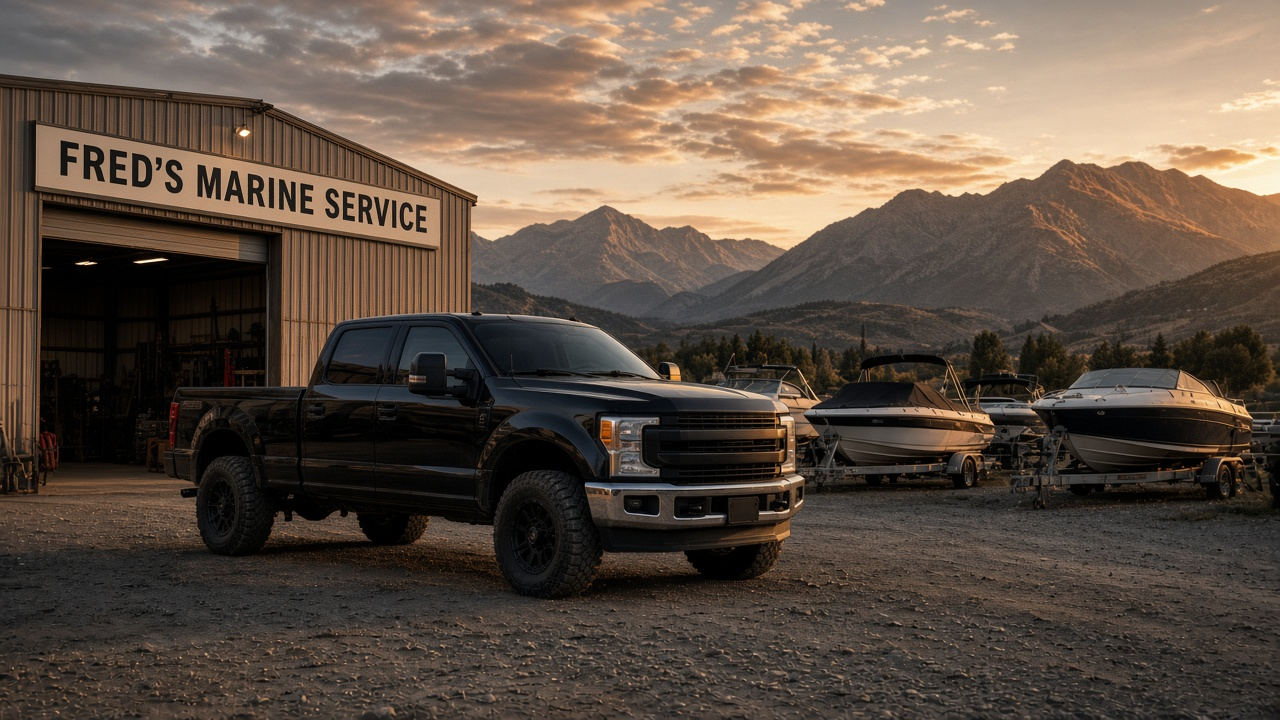
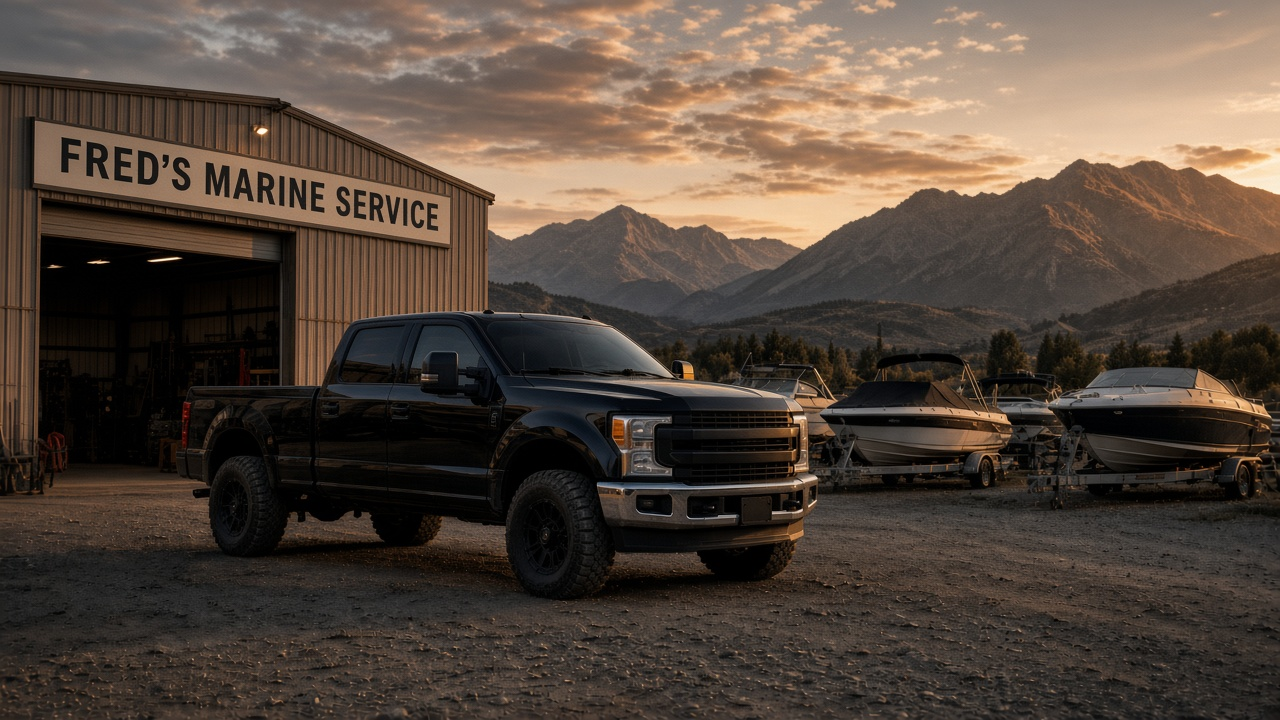
Widen the My Repairs board so steppers and shop names stay readable
Give the list more column room, keep badge and price text on one line, and
anchor the Fred’s Marine hero on the right so the headline sits on open sky.

Changed region(s): [[0.0, 0.0, 1.0, 1.0], [0.9375, 0.0, 0.9688, 0.0611], [0.9688, 0.1222, 1.0, 0.1528]]

diff --git a/components/repairs/customer-repairs.tsx b/components/repairs/customer-repairs.tsx
@@ -37,10 +37,10 @@ export function CustomerRepairs({
   return (
     <div className="bg-[#e8eef4] text-navy">
       <Hero />
-      <div className="relative z-10 mx-auto -mt-10 max-w-[1180px] px-6 pb-12">
+      <div className="relative z-10 mx-auto -mt-14 w-full max-w-[1240px] px-5 pb-12">
         <div className="rounded-[28px] bg-white p-5 shadow-[0_18px_40px_rgba(14,28,47,0.10)] sm:p-6">
           <div className="flex flex-wrap items-end justify-between gap-3 border-b border-line">
-            <div className="flex min-w-0 flex-1 flex-wrap gap-1">
+            <div className="flex min-w-0 flex-1 flex-wrap gap-0.5">
               {TABS.map((item) => {
                 const active = tab === item.key;
                 return (
@@ -49,7 +49,7 @@ export function CustomerRepairs({
                     type="button"
                     onClick={() => setTab(item.key)}
                     className={cn(
-                      "-mb-px border-b-2 px-3 py-3 text-sm font-semibold",
+                      "-mb-px cursor-pointer border-b-2 px-2.5 py-3 text-[13px] font-semibold sm:px-3 sm:text-sm",
                       active ? "border-[#2f7bff] text-[#2f7bff]" : "border-transparent text-muted hover:text-navy",
                     )}
                   >
@@ -72,7 +72,7 @@ export function CustomerRepairs({
             </label>
           </div>
 
-          <div className="mt-5 grid items-start gap-5 xl:grid-cols-[minmax(0,1fr)_300px]">
+          <div className="mt-5 grid items-start gap-5 lg:grid-cols-[minmax(0,1fr)_300px]">
             <div className="divide-y divide-line">
               {visible.length === 0 ? (
                 <p className="py-10 text-center text-sm text-muted">No repairs in this list.</p>
@@ -94,11 +94,15 @@ export function CustomerRepairs({
 
 function Hero() {
   return (
-    <section className="relative overflow-hidden pb-20 pt-24">
+    <section className="relative overflow-hidden bg-[#071422] pb-24 pt-24">
       {/* eslint-disable-next-line @next/next/no-img-element */}
-      <img src="/landing/repairs-hero.png" alt="" className="absolute inset-0 h-full w-full object-cover object-[62%_center]" />
-      <div className="absolute inset-0 bg-[linear-gradient(90deg,rgba(7,20,34,0.88)_0%,rgba(7,20,34,0.42)_52%,rgba(7,20,34,0.12)_100%)]" />
-      <p className="font-script absolute right-[5%] top-24 hidden max-w-[170px] text-right text-[28px] leading-tight text-white lg:block">
+      <img
+        src="/landing/repairs-hero.png"
+        alt=""
+        className="absolute inset-y-0 right-0 h-full w-[78%] object-cover object-[18%_center]"
+      />
+      <div className="absolute inset-0 bg-[linear-gradient(90deg,rgba(7,20,34,0.94)_0%,rgba(7,20,34,0.72)_28%,rgba(7,20,34,0.22)_58%,rgba(7,20,34,0.08)_100%)]" />
+      <p className="font-script absolute right-[4%] top-24 hidden max-w-[170px] text-right text-[28px] leading-tight text-white lg:block">
         Less Time
         <br />
         Waiting.
@@ -107,7 +111,7 @@ function Hero() {
         <br />
         Out There.
       </p>
-      <div className="relative mx-auto max-w-[1180px] px-6">
+      <div className="relative mx-auto max-w-[1240px] px-5">
         <p className="text-xs font-semibold tracking-[0.22em] text-white/75">MY REPAIRS</p>
         <h1 className="mt-2 max-w-2xl text-4xl font-extrabold tracking-tight text-white sm:text-5xl">
           Track Your <span className="text-[#2f7bff]">Repairs.</span>
@@ -124,8 +128,8 @@ function Hero() {
 
 function RepairItem({ row }: { row: RepairRow }) {
   return (
-    <article className="grid gap-4 py-5 md:grid-cols-[92px_minmax(0,0.9fr)_minmax(0,1.15fr)_110px_128px] md:items-center">
-      <div className="h-[72px] overflow-hidden rounded-xl">
+    <article className="grid gap-4 py-5 lg:grid-cols-[92px_minmax(200px,0.85fr)_minmax(260px,1.35fr)_minmax(118px,0.4fr)_minmax(132px,0.42fr)] lg:items-center">
+      <div className="h-[76px] overflow-hidden rounded-xl">
         {/* eslint-disable-next-line @next/next/no-img-element */}
         <img src={row.photo} alt="" className="h-full w-full object-cover" />
       </div>
@@ -134,15 +138,15 @@ function RepairItem({ row }: { row: RepairRow }) {
         <p className="text-sm text-muted">{row.problem}</p>
         <div className="mt-2 flex items-center gap-2">
           {/* eslint-disable-next-line @next/next/no-img-element */}
-          <img src={row.shopPhoto} alt="" className="h-7 w-7 rounded-full object-cover" />
-          <div className="min-w-0 leading-tight">
-            <p className="truncate text-sm font-semibold text-[#2f7bff]">{row.shopName}</p>
+          <img src={row.shopPhoto} alt="" className="h-8 w-8 shrink-0 rounded-full object-cover" />
+          <div className="leading-tight">
+            <p className="text-sm font-semibold text-[#2f7bff]">{row.shopName}</p>
             <p className="text-xs text-muted">{row.shopCity}</p>
           </div>
         </div>
       </div>
       <div className="min-w-0">
-        <span className={cn("inline-flex rounded-full px-2.5 py-1 text-xs font-semibold", badgeClass(row.badge.tone))}>
+        <span className={cn("inline-flex whitespace-nowrap rounded-full px-2.5 py-1 text-xs font-semibold", badgeClass(row.badge.tone))}>
           {row.badge.label}
         </span>
         <p className="mt-2 text-xs text-muted">
@@ -151,7 +155,7 @@ function RepairItem({ row }: { row: RepairRow }) {
         {row.relativeLabel ? <p className="text-xs text-muted">{row.relativeLabel}</p> : null}
         <Stepper steps={row.steps} current={row.stepIndex} />
       </div>
-      <div>
+      <div className="whitespace-nowrap">
         <p className="text-xs text-muted">{row.priceLabel}</p>
         <p className="text-lg font-bold">{row.price}</p>
       </div>
@@ -181,23 +185,27 @@ function RepairItem({ row }: { row: RepairRow }) {
 
 function Stepper({ steps, current }: { steps: string[]; current: number }) {
   return (
-    <ol className="mt-3 flex items-start">
+    <ol className="mt-3 flex w-full min-w-[268px] items-start">
       {steps.map((step, index) => {
         const done = index < current;
         const active = index === current;
         return (
           <li key={step} className="flex min-w-0 flex-1 flex-col items-center">
             <div className="flex w-full items-center">
-              <span className={cn("h-0.5 flex-1", index === 0 ? "bg-transparent" : done || active ? "bg-[#2f7bff]" : "bg-line")} />
+              <span className={cn("h-[2px] flex-1", index === 0 ? "bg-transparent" : done || active ? "bg-[#2f7bff]" : "bg-[#d5dee8]")} />
               <span
                 className={cn(
-                  "rounded-full",
-                  active ? "h-3 w-3 bg-[#2f7bff] ring-4 ring-[#2f7bff]/20" : done ? "h-2 w-2 bg-[#2f7bff]" : "h-2 w-2 border border-[#c5d0dc] bg-white",
+                  "z-[1] shrink-0 rounded-full",
+                  active
+                    ? "h-3.5 w-3.5 bg-[#2f7bff] ring-[5px] ring-[#2f7bff]/20"
+                    : done
+                      ? "h-2.5 w-2.5 bg-[#2f7bff]"
+                      : "h-2.5 w-2.5 border border-[#c5d0dc] bg-white",
                 )}
               />
-              <span className={cn("h-0.5 flex-1", index === steps.length - 1 ? "bg-transparent" : done ? "bg-[#2f7bff]" : "bg-line")} />
+              <span className={cn("h-[2px] flex-1", index === steps.length - 1 ? "bg-transparent" : done ? "bg-[#2f7bff]" : "bg-[#d5dee8]")} />
             </div>
-            <span className="mt-1 w-[4.6rem] text-center text-[9px] leading-tight text-muted">{step}</span>
+            <span className="mt-1.5 px-0.5 text-center text-[10px] leading-tight text-[#7a8794]">{step}</span>
           </li>
         );
       })}

diff --git a/components/layout/customer-sidebar.tsx b/components/layout/customer-sidebar.tsx
@@ -61,7 +61,7 @@ export function CustomerSidebar({ unreadMessages, onNavigate }: { unreadMessages
               href={link.href}
               onClick={onNavigate}
               className={cn(
-                "flex items-center gap-3 rounded-xl px-3 py-2.5 text-sm font-semibold",
+                "flex items-center gap-3 rounded-xl px-3 py-2 text-sm font-semibold",
                 active ? "bg-[#2f7bff] text-white" : "text-white/70 hover:bg-white/5 hover:text-white",
               )}
             >
@@ -80,7 +80,7 @@ export function CustomerSidebar({ unreadMessages, onNavigate }: { unreadMessages
         <div className="overflow-hidden rounded-2xl bg-white/5 p-3">
           <div className="flex items-end gap-2">
             {/* eslint-disable-next-line @next/next/no-img-element */}
-            <img src="/landing/app-phone.png" alt="" className="h-[108px] w-auto object-contain" />
+            <img src="/landing/app-phone.png" alt="" className="h-[100px] w-[72px] shrink-0 object-contain object-bottom" />
             <div className="min-w-0 pb-1">
               <p className="text-sm font-semibold leading-snug">Take Pocket Mechanic on the go.</p>
               <Link
